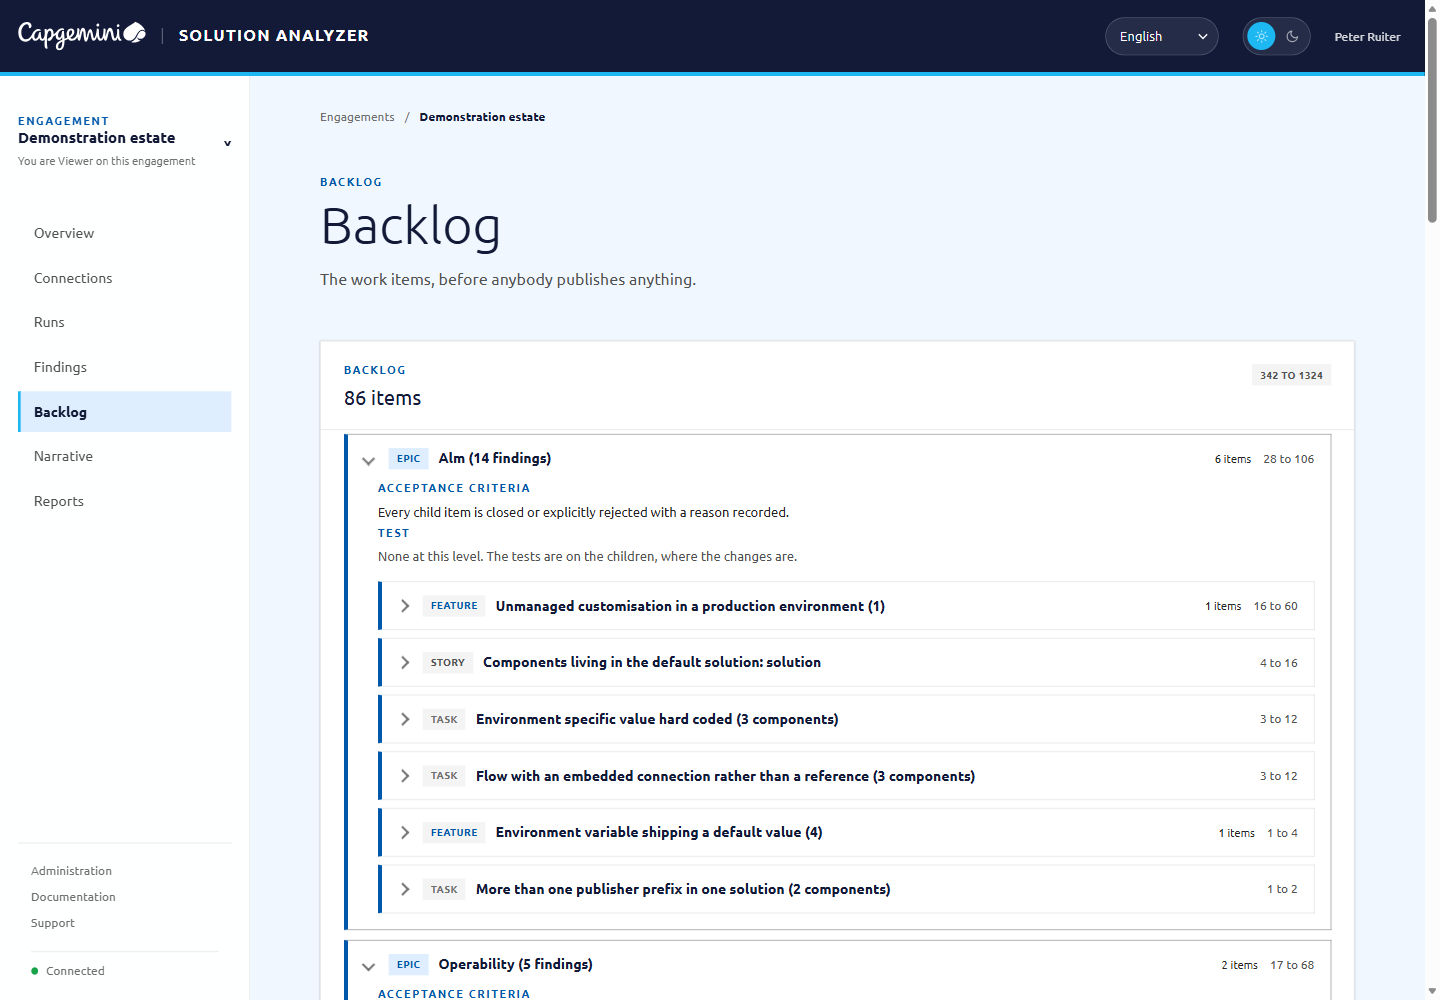
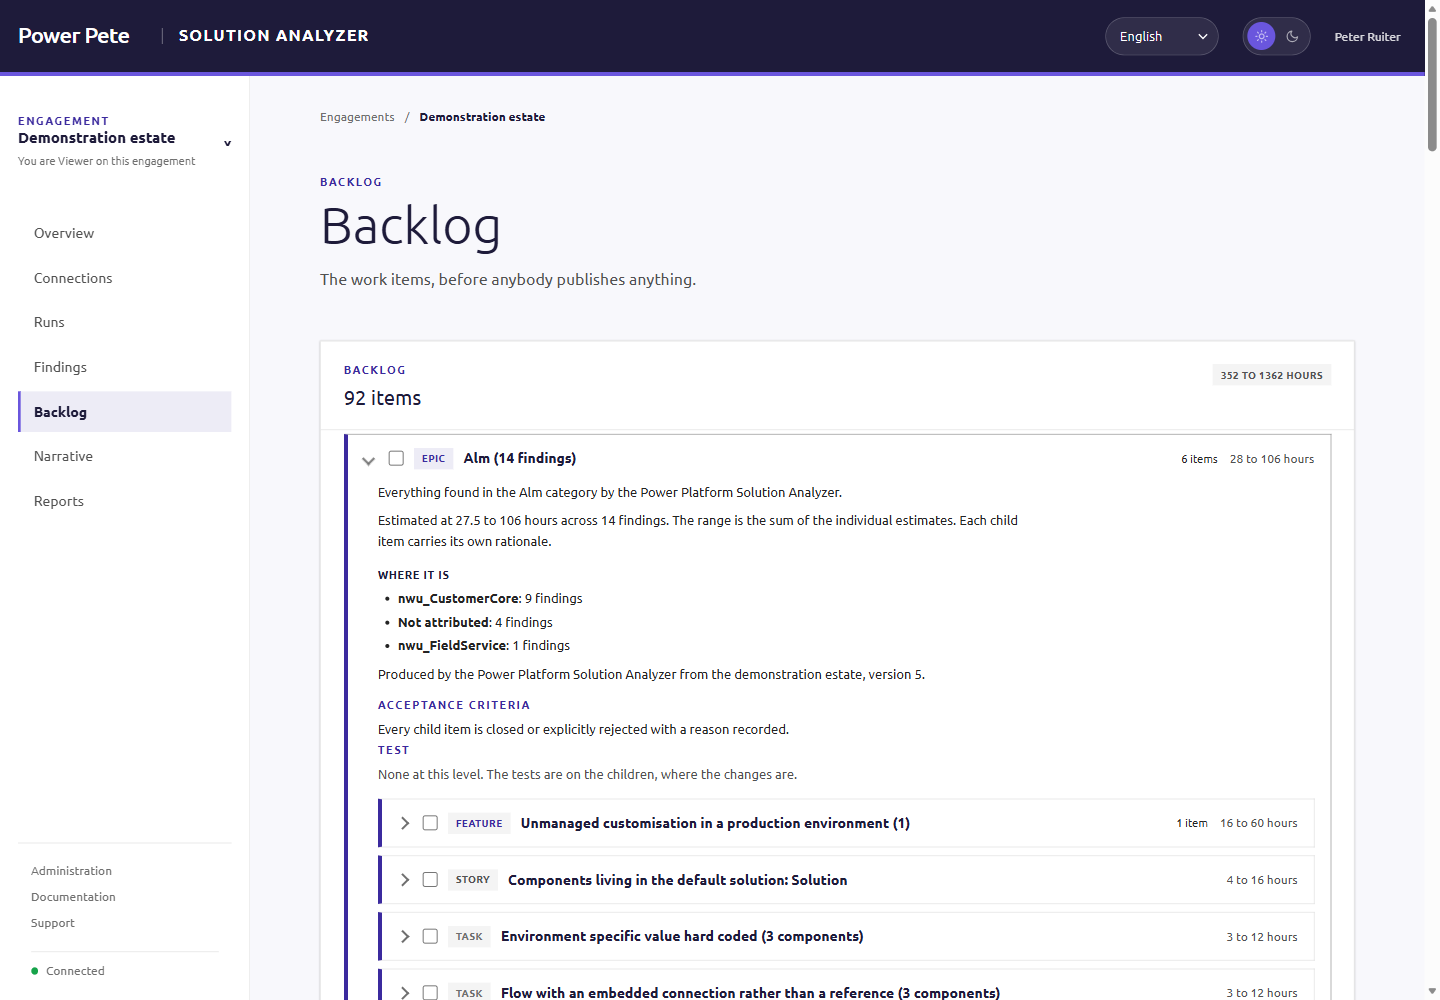
The product was never actually rebranded, and now it is
The public site went purple and the product it advertises stayed Capgemini
blue. /brand.css was correct, served correctly, and linked correctly from
index.html; Vite injects the bundle's own stylesheet after whatever index.html
links, and the bundle declares the same :root ramp, so the brand lost the
cascade on every page of the web app.

Nothing about that shows up in a diff or in a check that the endpoint returns
the right colours, which it did throughout. It survived a deploy and a live
verification because I checked what the server sent rather than what the
browser drew.

:root:root is 0,2,0 against :root's 0,1,0, so it wins wherever a bundler
decides to put things, now or later.

Found by running the product, which is the whole argument for being able to.
build/Start-Local.ps1 is how: no bypass, because there does not need to be one.
LocalSignInHandler already signs you in when no Entra application is
configured, and it is a scheme rather than an exemption, so every endpoint
keeps its RequireAuthorization and the authorisation pipeline still runs. A
local run that skipped the checks would exercise a different product from the
deployed one. What was missing was not the capability but the instructions.

It defaults to signing in as the administrator the deployment already has, so
it writes no user row: it reads the real database as somebody already admitted
rather than inventing somebody.

The three screen images on the public site are that run, photographed. They
[…]

diff --git a/src/PowerPete.Analyzer.Api/Program.cs b/src/PowerPete.Analyzer.Api/Program.cs
@@ -1255,7 +1255,11 @@ app.MapGet("/brand.css", () =>
         .Select(entry => $"  --ramp-{entry.Key}: {entry.Value};");
 
     var css = $"/* {PowerPete.Analyzer.Export.Brand.Name}. Generated from brands/{PowerPete.Analyzer.Export.Brand.Id}.json. */\n"
-        + ":root {\n" + string.Join("\n", lines) + "\n}\n";
+        // :root:root rather than :root. The web app's bundle declares this same ramp
+        // and Vite injects its stylesheet after whatever index.html links, so a plain
+        // :root lost to it and the product never changed brand at all. Doubling the
+        // selector doubles the specificity and takes load order out of it.
+        + ":root:root {\n" + string.Join("\n", lines) + "\n}\n";
 
     // Not cached. The whole point of choosing the brand at run time is that a restart
     // changes it, and a stylesheet a browser held for a year would mean it did not.
